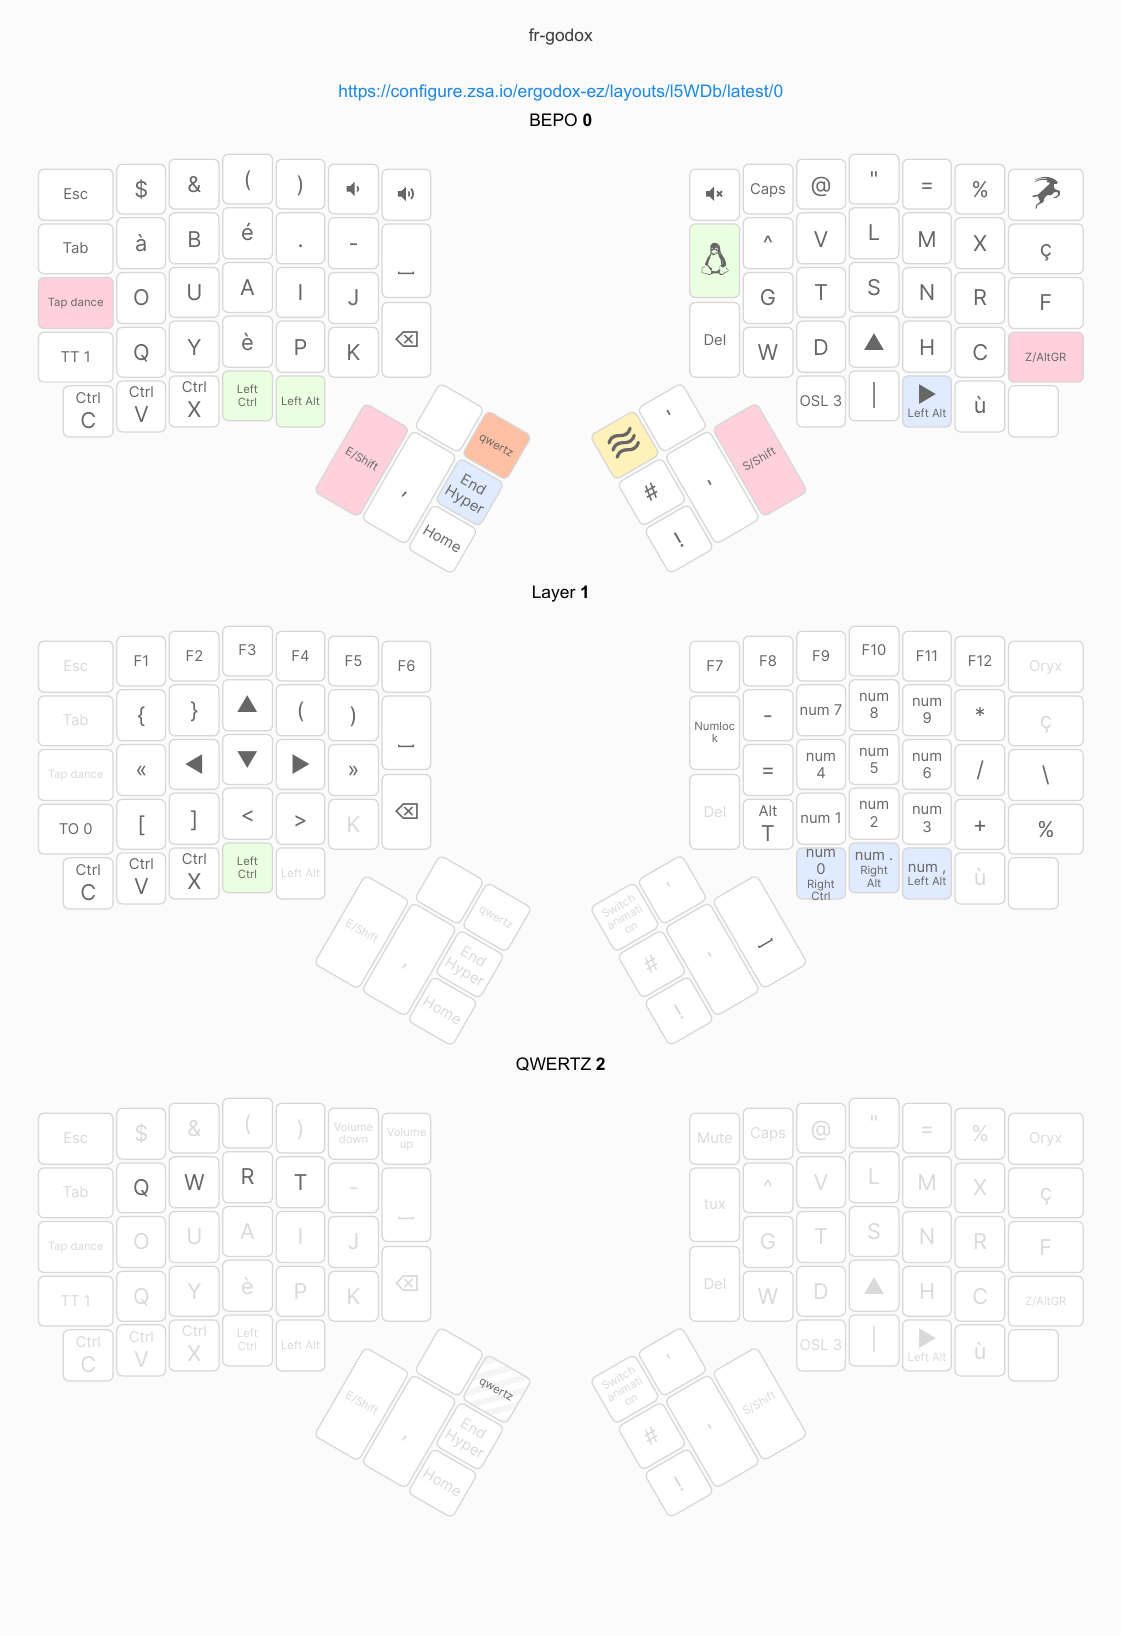
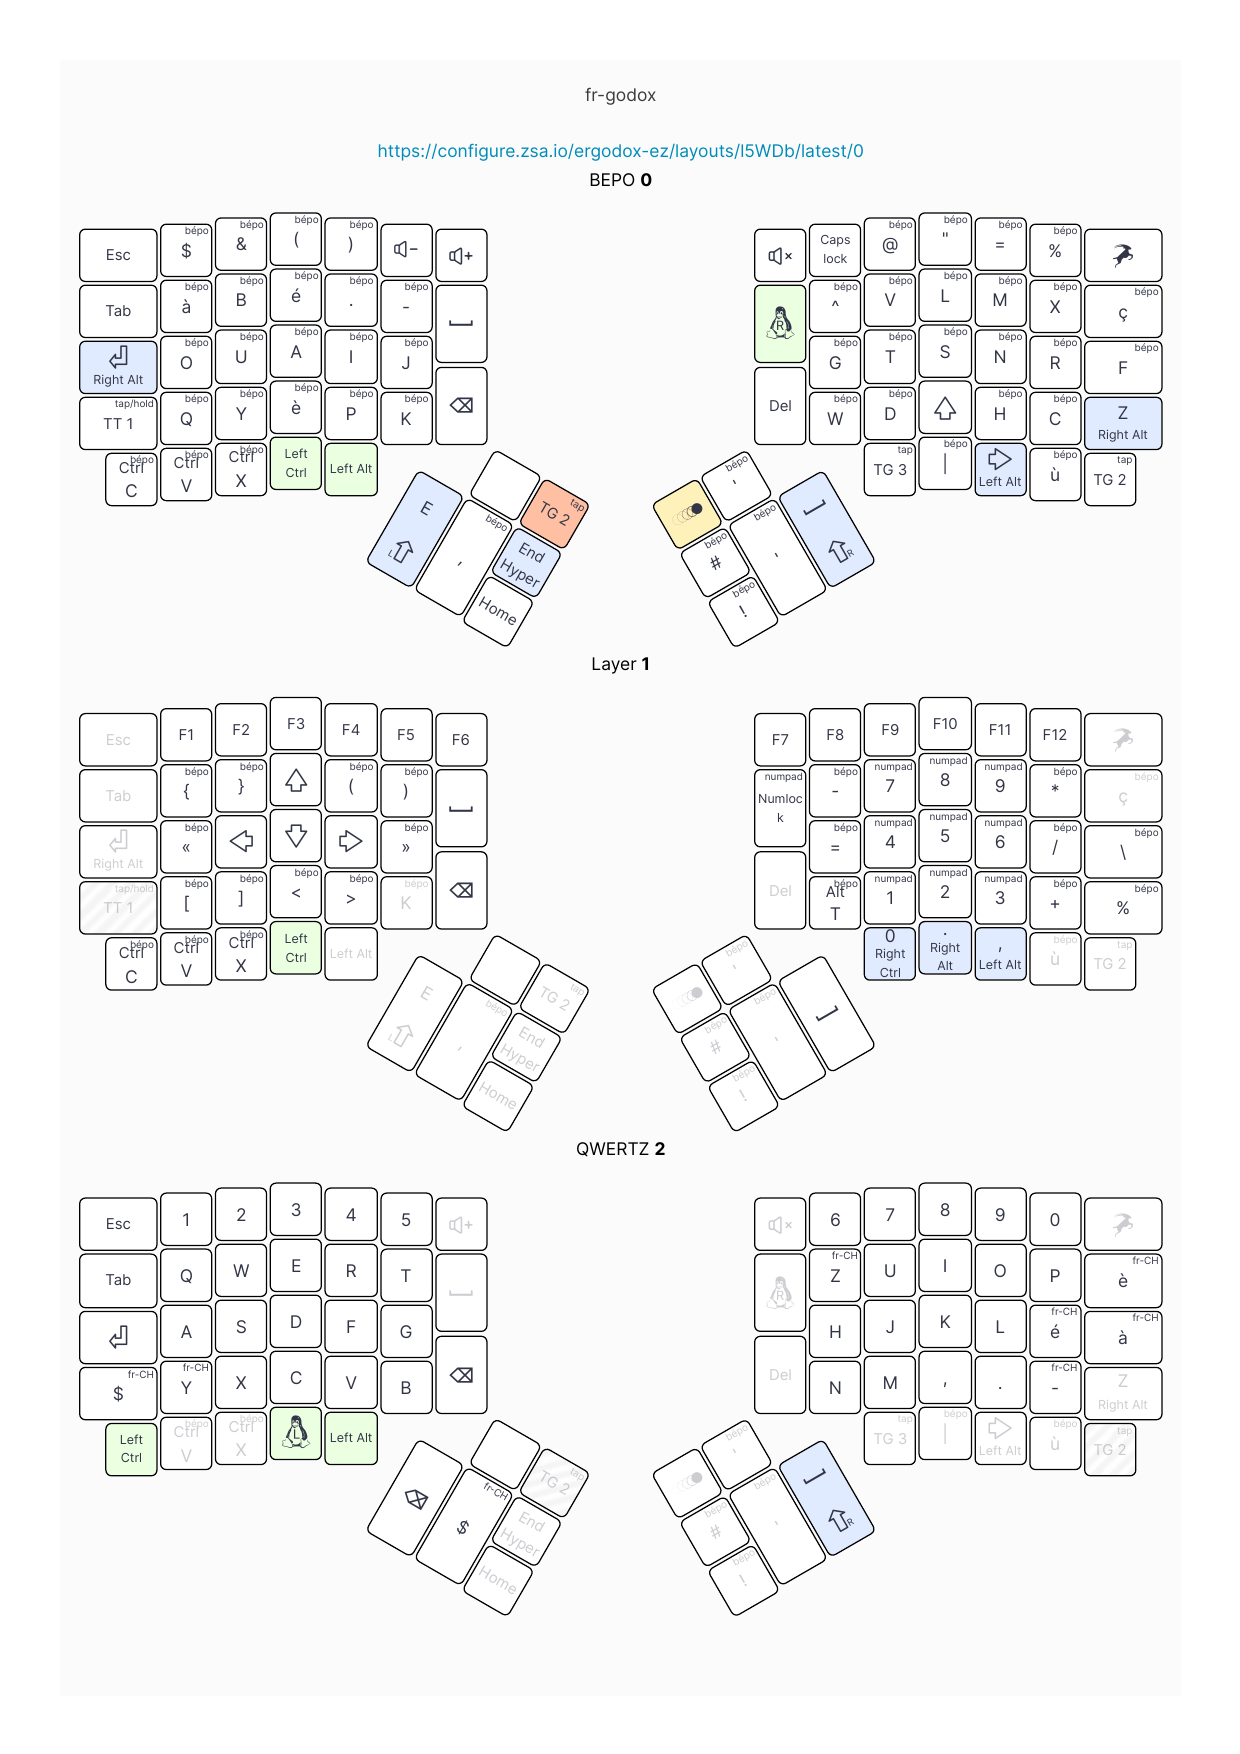
Add qwertz layer and change color when changing to a different layer

diff --git a/keyboards/ergodox_ez/shine/keymaps/fr_godox/keymap.c b/keyboards/ergodox_ez/shine/keymaps/fr_godox/keymap.c
@@ -49,48 +49,42 @@ enum custom_keycodes {
   BP_RSPC,
 };
 
-enum tap_dance_codes {
-  DANCE_0,
-  DANCE_1,
-  DANCE_2,
-  DANCE_3,
-};
 
 const uint16_t PROGMEM keymaps[][MATRIX_ROWS][MATRIX_COLS] = {
   [0] = LAYOUT_ergodox_pretty(
     KC_ESCAPE,      BP_DLR,         BP_AMPR,        BP_LPRN,        BP_RPRN,        KC_AUDIO_VOL_DOWN,KC_AUDIO_VOL_UP,                                KC_AUDIO_MUTE,  KC_CAPSLOCK,    BP_AT,          BP_DQOT,        BP_EQL,         BP_PERC,        WEBUSB_PAIR,
     KC_TAB,         BP_AGRV,        BP_B,           BP_ECUT,        BP_DOT,         BP_MINS,        KC_SPACE,                                       KC_RGUI,        BP_DCRC,        BP_V,           BP_L,           BP_M,           BP_X,           BP_CCED,
-    TD(DANCE_0),    BP_O,           BP_U,           BP_A,           BP_I,           BP_J,                                                                           BP_G,           BP_T,           BP_S,           BP_N,           BP_R,           BP_F,
-    TT(1),          BP_Q,           BP_Y,           BP_EGRV,        BP_P,           BP_K,           KC_BSPACE,                                      KC_DELETE,      BP_W,           BP_D,           KC_UP,          BP_H,           BP_C,           TD(DANCE_2),
-    LCTL(BP_C),     LCTL(BP_V),     LCTL(BP_X),     KC_LCTRL,       KC_LALT,                                                                                                        OSL(3),         BP_PIPE,        LALT_T(KC_RIGHT),BP_UGRV,        KC_TRANSPARENT,
+    RALT_T(KC_ENTER),BP_O,           BP_U,           BP_A,           BP_I,           BP_J,                                                                           BP_G,           BP_T,           BP_S,           BP_N,           BP_R,           BP_F,
+    TT(1),          BP_Q,           BP_Y,           BP_EGRV,        BP_P,           BP_K,           KC_BSPACE,                                      KC_DELETE,      BP_W,           BP_D,           KC_UP,          BP_H,           BP_C,           RALT_T(BP_Z),
+    LCTL(BP_C),     LCTL(BP_V),     LCTL(BP_X),     KC_LCTRL,       KC_LALT,                                                                                                        TG(3),          BP_PIPE,        LALT_T(KC_RIGHT),BP_UGRV,        TG(2),
                                                                                                     KC_TRANSPARENT, TG(2),          RGB_MOD,        BP_APOS,
-                                                                                                                    MT(MOD_HYPR, KC_END),BP_HASH,
-                                                                                    TD(DANCE_1),    BP_COMM,        KC_HOME,        BP_EXLM,        BP_APOS,        TD(DANCE_3)
+                                                                                                                    MT(MOD_HYPR,KC_END),BP_HASH,
+                                                                                    LSFT_T(BP_E),   BP_COMM,        KC_HOME,        BP_EXLM,        BP_APOS,        RSFT_T(KC_SPACE)
   ),
   [1] = LAYOUT_ergodox_pretty(
     KC_TRANSPARENT, KC_F1,          KC_F2,          KC_F3,          KC_F4,          KC_F5,          KC_F6,                                          KC_F7,          KC_F8,          KC_F9,          KC_F10,         KC_F11,         KC_F12,         KC_TRANSPARENT,
     KC_TRANSPARENT, BP_LCBR,        BP_RCBR,        KC_UP,          BP_LPRN,        BP_RPRN,        KC_SPACE,                                       KC_NUMLOCK,     BP_MINS,        KC_KP_7,        KC_KP_8,        KC_KP_9,        BP_ASTR,        KC_TRANSPARENT,
     KC_TRANSPARENT, BP_LGIL,        KC_LEFT,        KC_DOWN,        KC_RIGHT,       BP_RGIL,                                                                        BP_EQL,         KC_KP_4,        KC_KP_5,        KC_KP_6,        BP_SLSH,        BP_BSLS,
-    TO(0),          BP_LBRC,        BP_RBRC,        BP_LESS,        BP_GRTR,        KC_TRANSPARENT, KC_BSPACE,                                      KC_TRANSPARENT, RALT(BP_T),     KC_KP_1,        KC_KP_2,        KC_KP_3,        BP_PLUS,        BP_PERC,
+    KC_TRANSPARENT, BP_LBRC,        BP_RBRC,        BP_LESS,        BP_GRTR,        KC_TRANSPARENT, KC_BSPACE,                                      KC_TRANSPARENT, RALT(BP_T),     KC_KP_1,        KC_KP_2,        KC_KP_3,        BP_PLUS,        BP_PERC,
     LCTL(BP_C),     LCTL(BP_V),     LCTL(BP_X),     KC_LCTRL,       KC_TRANSPARENT,                                                                                                 RCTL_T(KC_KP_0),RALT_T(KC_KP_DOT),LALT_T(KC_KP_COMMA),KC_TRANSPARENT, KC_TRANSPARENT,
                                                                                                     KC_TRANSPARENT, KC_TRANSPARENT, KC_TRANSPARENT, KC_TRANSPARENT,
                                                                                                                     KC_TRANSPARENT, KC_TRANSPARENT,
                                                                                     KC_TRANSPARENT, KC_TRANSPARENT, KC_TRANSPARENT, KC_TRANSPARENT, KC_TRANSPARENT, KC_SPACE
   ),
   [2] = LAYOUT_ergodox_pretty(
-    KC_TRANSPARENT, KC_TRANSPARENT, KC_TRANSPARENT, KC_TRANSPARENT, KC_TRANSPARENT, KC_TRANSPARENT, KC_TRANSPARENT,                                 KC_TRANSPARENT, KC_TRANSPARENT, KC_TRANSPARENT, KC_TRANSPARENT, KC_TRANSPARENT, KC_TRANSPARENT, KC_TRANSPARENT,
-    KC_TRANSPARENT, KC_Q,           KC_W,           KC_R,           KC_T,           KC_TRANSPARENT, KC_TRANSPARENT,                                 KC_TRANSPARENT, KC_TRANSPARENT, KC_TRANSPARENT, KC_TRANSPARENT, KC_TRANSPARENT, KC_TRANSPARENT, KC_TRANSPARENT,
-    KC_TRANSPARENT, KC_TRANSPARENT, KC_TRANSPARENT, KC_TRANSPARENT, KC_TRANSPARENT, KC_TRANSPARENT,                                                                 KC_TRANSPARENT, KC_TRANSPARENT, KC_TRANSPARENT, KC_TRANSPARENT, KC_TRANSPARENT, KC_TRANSPARENT,
-    KC_TRANSPARENT, KC_TRANSPARENT, KC_TRANSPARENT, KC_TRANSPARENT, KC_TRANSPARENT, KC_TRANSPARENT, KC_TRANSPARENT,                                 KC_TRANSPARENT, KC_TRANSPARENT, KC_TRANSPARENT, KC_TRANSPARENT, KC_TRANSPARENT, KC_TRANSPARENT, KC_TRANSPARENT,
-    KC_TRANSPARENT, KC_TRANSPARENT, KC_TRANSPARENT, KC_TRANSPARENT, KC_TRANSPARENT,                                                                                                 KC_TRANSPARENT, KC_TRANSPARENT, KC_TRANSPARENT, KC_TRANSPARENT, KC_TRANSPARENT,
+    KC_ESCAPE,      KC_1,           KC_2,           KC_3,           KC_4,           KC_5,           KC_TRANSPARENT,                                 KC_TRANSPARENT, KC_6,           KC_7,           KC_8,           KC_9,           KC_0,           KC_TRANSPARENT,
+    KC_TAB,         KC_Q,           KC_W,           KC_E,           KC_R,           KC_T,           KC_TRANSPARENT,                                 KC_TRANSPARENT, FRCH_Z,         KC_U,           KC_I,           KC_O,           KC_P,           FRCH_EGRV,
+    KC_ENTER,       KC_A,           KC_S,           KC_D,           KC_F,           KC_G,                                                                           KC_H,           KC_J,           KC_K,           KC_L,           FRCH_EACU,      FRCH_AGRV,
+    FRCH_DLR,       FRCH_Y,         KC_X,           KC_C,           KC_V,           KC_B,           KC_BSPACE,                                      KC_TRANSPARENT, KC_N,           KC_M,           KC_COMMA,       KC_DOT,         FRCH_MINS,      KC_TRANSPARENT,
+    KC_LCTRL,       KC_TRANSPARENT, KC_TRANSPARENT, KC_LGUI,        KC_LALT,                                                                                                        KC_TRANSPARENT, KC_TRANSPARENT, KC_TRANSPARENT, KC_TRANSPARENT, KC_TRANSPARENT,
                                                                                                     KC_TRANSPARENT, KC_TRANSPARENT, KC_TRANSPARENT, KC_TRANSPARENT,
                                                                                                                     KC_TRANSPARENT, KC_TRANSPARENT,
-                                                                                    KC_TRANSPARENT, KC_TRANSPARENT, KC_TRANSPARENT, KC_TRANSPARENT, KC_TRANSPARENT, KC_TRANSPARENT
+                                                                                    KC_BSPACE,      FRCH_DLR,       KC_TRANSPARENT, KC_TRANSPARENT, KC_TRANSPARENT, RSFT_T(KC_SPACE)
   ),
   [3] = LAYOUT_ergodox_pretty(
     KC_TRANSPARENT, KC_TRANSPARENT, KC_TRANSPARENT, KC_TRANSPARENT, KC_TRANSPARENT, KC_TRANSPARENT, KC_TRANSPARENT,                                 KC_TRANSPARENT, KC_TRANSPARENT, KC_TRANSPARENT, KC_TRANSPARENT, KC_TRANSPARENT, KC_TRANSPARENT, KC_TRANSPARENT,
     KC_TRANSPARENT, KC_TRANSPARENT, KC_TRANSPARENT, KC_TRANSPARENT, KC_TRANSPARENT, KC_TRANSPARENT, KC_TRANSPARENT,                                 KC_TRANSPARENT, KC_TRANSPARENT, KC_TRANSPARENT, KC_TRANSPARENT, KC_TRANSPARENT, KC_TRANSPARENT, KC_TRANSPARENT,
-    KC_TRANSPARENT, LALT(BP_1),     LALT(BP_2),     LALT(BP_3),     LALT(BP_4),     KC_TRANSPARENT,                                                                 KC_TRANSPARENT, LALT(BP_5),     BP_6,           BP_7,           LALT(BP_8),     KC_TRANSPARENT,
+    KC_TRANSPARENT, LALT(BP_1),     LALT(BP_2),     LALT(LCTL(BP_3)),LALT(BP_4),     KC_TRANSPARENT,                                                                 KC_TRANSPARENT, LALT(BP_5),     LALT(BP_6),     LALT(BP_7),     LALT(BP_8),     KC_TRANSPARENT,
     KC_TRANSPARENT, KC_TRANSPARENT, KC_TRANSPARENT, KC_TRANSPARENT, KC_TRANSPARENT, KC_TRANSPARENT, KC_TRANSPARENT,                                 KC_TRANSPARENT, KC_TRANSPARENT, KC_TRANSPARENT, KC_TRANSPARENT, KC_TRANSPARENT, KC_TRANSPARENT, KC_TRANSPARENT,
     KC_TRANSPARENT, KC_TRANSPARENT, KC_TRANSPARENT, KC_TRANSPARENT, KC_TRANSPARENT,                                                                                                 KC_TRANSPARENT, KC_TRANSPARENT, KC_TRANSPARENT, KC_TRANSPARENT, KC_TRANSPARENT,
                                                                                                     KC_TRANSPARENT, KC_TRANSPARENT, KC_TRANSPARENT, KC_TRANSPARENT,
@@ -120,6 +114,9 @@ const uint16_t PROGMEM keymaps[][MATRIX_ROWS][MATRIX_COLS] = {
 };
 
 
+rgblight_config_t rgblight_config;
+bool disable_layer_color = 0;
+
 bool suspended = false;
 
 bool process_record_user(uint16_t keycode, keyrecord_t *record) {
@@ -133,6 +130,11 @@ bool process_record_user(uint16_t keycode, keyrecord_t *record) {
     case RGB_SLD:
       if (record->event.pressed) {
         rgblight_mode(1);
+      }
+      return false;
+    case TOGGLE_LAYER_COLOR:
+      if (record->event.pressed) {
+        disable_layer_color ^= 1;
       }
       return false;
   }
@@ -177,6 +179,28 @@ uint32_t layer_state_set_user(uint32_t state) {
       default:
         break;
     }
+    switch (layer) {
+      case 2:
+        if(!disable_layer_color) {
+          rgblight_enable_noeeprom();
+          rgblight_mode_noeeprom(1);
+          rgblight_sethsv_noeeprom(0,238,225);
+        }
+        break;
+      default:
+        if(!disable_layer_color) {
+          rgblight_config.raw = eeconfig_read_rgblight();
+          if(rgblight_config.enable == true) {
+            rgblight_enable();
+            rgblight_mode(rgblight_config.mode);
+            rgblight_sethsv(rgblight_config.hue, rgblight_config.sat, rgblight_config.val);
+          }
+          else {
+            rgblight_disable();
+          }
+        }
+        break;
+    }
     return state;
 
 };
@@ -185,182 +209,4 @@ void keyboard_post_init_user(void) {
   layer_state_set_user(layer_state);
 }
 
-typedef struct {
-    bool is_press_action;
-    uint8_t step;
-} tap;
-
-enum {
-    SINGLE_TAP = 1,
-    SINGLE_HOLD,
-    DOUBLE_TAP,
-    DOUBLE_HOLD,
-    DOUBLE_SINGLE_TAP,
-    MORE_TAPS
-};
-
-static tap dance_state[4];
-
-uint8_t dance_step(qk_tap_dance_state_t *state);
-
-uint8_t dance_step(qk_tap_dance_state_t *state) {
-    if (state->count == 1) {
-        if (state->interrupted || !state->pressed) return SINGLE_TAP;
-        else return SINGLE_HOLD;
-    } else if (state->count == 2) {
-        if (state->interrupted) return DOUBLE_SINGLE_TAP;
-        else if (state->pressed) return DOUBLE_HOLD;
-        else return DOUBLE_TAP;
-    }
-    return MORE_TAPS;
-}
-
-
-void on_dance_0(qk_tap_dance_state_t *state, void *user_data);
-void dance_0_finished(qk_tap_dance_state_t *state, void *user_data);
-void dance_0_reset(qk_tap_dance_state_t *state, void *user_data);
-
-void on_dance_0(qk_tap_dance_state_t *state, void *user_data) {
-    if(state->count == 3) {
-        tap_code16(KC_ENTER);
-        tap_code16(KC_ENTER);
-        tap_code16(KC_ENTER);
-    }
-    if(state->count > 3) {
-        tap_code16(KC_ENTER);
-    }
-}
-
-void dance_0_finished(qk_tap_dance_state_t *state, void *user_data) {
-    dance_state[0].step = dance_step(state);
-    switch (dance_state[0].step) {
-        case SINGLE_TAP: register_code16(KC_ENTER); break;
-        case SINGLE_HOLD: register_code16(KC_RALT); break;
-        case DOUBLE_TAP: register_code16(KC_ENTER); register_code16(KC_ENTER); break;
-        case DOUBLE_SINGLE_TAP: tap_code16(KC_ENTER); register_code16(KC_ENTER);
-    }
-}
-
-void dance_0_reset(qk_tap_dance_state_t *state, void *user_data) {
-    wait_ms(10);
-    switch (dance_state[0].step) {
-        case SINGLE_TAP: unregister_code16(KC_ENTER); break;
-        case SINGLE_HOLD: unregister_code16(KC_RALT); break;
-        case DOUBLE_TAP: unregister_code16(KC_ENTER); break;
-        case DOUBLE_SINGLE_TAP: unregister_code16(KC_ENTER); break;
-    }
-    dance_state[0].step = 0;
-}
-void on_dance_1(qk_tap_dance_state_t *state, void *user_data);
-void dance_1_finished(qk_tap_dance_state_t *state, void *user_data);
-void dance_1_reset(qk_tap_dance_state_t *state, void *user_data);
-
-void on_dance_1(qk_tap_dance_state_t *state, void *user_data) {
-    if(state->count == 3) {
-        tap_code16(BP_E);
-        tap_code16(BP_E);
-        tap_code16(BP_E);
-    }
-    if(state->count > 3) {
-        tap_code16(BP_E);
-    }
-}
-
-void dance_1_finished(qk_tap_dance_state_t *state, void *user_data) {
-    dance_state[1].step = dance_step(state);
-    switch (dance_state[1].step) {
-        case SINGLE_TAP: register_code16(BP_E); break;
-        case SINGLE_HOLD: register_code16(KC_LSHIFT); break;
-        case DOUBLE_TAP: register_code16(BP_E); register_code16(BP_E); break;
-        case DOUBLE_SINGLE_TAP: tap_code16(BP_E); register_code16(BP_E);
-    }
-}
-
-void dance_1_reset(qk_tap_dance_state_t *state, void *user_data) {
-    wait_ms(10);
-    switch (dance_state[1].step) {
-        case SINGLE_TAP: unregister_code16(BP_E); break;
-        case SINGLE_HOLD: unregister_code16(KC_LSHIFT); break;
-        case DOUBLE_TAP: unregister_code16(BP_E); break;
-        case DOUBLE_SINGLE_TAP: unregister_code16(BP_E); break;
-    }
-    dance_state[1].step = 0;
-}
-void on_dance_2(qk_tap_dance_state_t *state, void *user_data);
-void dance_2_finished(qk_tap_dance_state_t *state, void *user_data);
-void dance_2_reset(qk_tap_dance_state_t *state, void *user_data);
-
-void on_dance_2(qk_tap_dance_state_t *state, void *user_data) {
-    if(state->count == 3) {
-        tap_code16(BP_Z);
-        tap_code16(BP_Z);
-        tap_code16(BP_Z);
-    }
-    if(state->count > 3) {
-        tap_code16(BP_Z);
-    }
-}
-
-void dance_2_finished(qk_tap_dance_state_t *state, void *user_data) {
-    dance_state[2].step = dance_step(state);
-    switch (dance_state[2].step) {
-        case SINGLE_TAP: register_code16(BP_Z); break;
-        case SINGLE_HOLD: register_code16(KC_RALT); break;
-        case DOUBLE_TAP: register_code16(BP_Z); register_code16(BP_Z); break;
-        case DOUBLE_SINGLE_TAP: tap_code16(BP_Z); register_code16(BP_Z);
-    }
-}
-
-void dance_2_reset(qk_tap_dance_state_t *state, void *user_data) {
-    wait_ms(10);
-    switch (dance_state[2].step) {
-        case SINGLE_TAP: unregister_code16(BP_Z); break;
-        case SINGLE_HOLD: unregister_code16(KC_RALT); break;
-        case DOUBLE_TAP: unregister_code16(BP_Z); break;
-        case DOUBLE_SINGLE_TAP: unregister_code16(BP_Z); break;
-    }
-    dance_state[2].step = 0;
-}
-void on_dance_3(qk_tap_dance_state_t *state, void *user_data);
-void dance_3_finished(qk_tap_dance_state_t *state, void *user_data);
-void dance_3_reset(qk_tap_dance_state_t *state, void *user_data);
-
-void on_dance_3(qk_tap_dance_state_t *state, void *user_data) {
-    if(state->count == 3) {
-        tap_code16(KC_SPACE);
-        tap_code16(KC_SPACE);
-        tap_code16(KC_SPACE);
-    }
-    if(state->count > 3) {
-        tap_code16(KC_SPACE);
-    }
-}
-
-void dance_3_finished(qk_tap_dance_state_t *state, void *user_data) {
-    dance_state[3].step = dance_step(state);
-    switch (dance_state[3].step) {
-        case SINGLE_TAP: register_code16(KC_SPACE); break;
-        case SINGLE_HOLD: register_code16(KC_RSHIFT); break;
-        case DOUBLE_TAP: register_code16(KC_SPACE); register_code16(KC_SPACE); break;
-        case DOUBLE_SINGLE_TAP: tap_code16(KC_SPACE); register_code16(KC_SPACE);
-    }
-}
-
-void dance_3_reset(qk_tap_dance_state_t *state, void *user_data) {
-    wait_ms(10);
-    switch (dance_state[3].step) {
-        case SINGLE_TAP: unregister_code16(KC_SPACE); break;
-        case SINGLE_HOLD: unregister_code16(KC_RSHIFT); break;
-        case DOUBLE_TAP: unregister_code16(KC_SPACE); break;
-        case DOUBLE_SINGLE_TAP: unregister_code16(KC_SPACE); break;
-    }
-    dance_state[3].step = 0;
-}
-
-qk_tap_dance_action_t tap_dance_actions[] = {
-        [DANCE_0] = ACTION_TAP_DANCE_FN_ADVANCED(on_dance_0, dance_0_finished, dance_0_reset),
-        [DANCE_1] = ACTION_TAP_DANCE_FN_ADVANCED(on_dance_1, dance_1_finished, dance_1_reset),
-        [DANCE_2] = ACTION_TAP_DANCE_FN_ADVANCED(on_dance_2, dance_2_finished, dance_2_reset),
-        [DANCE_3] = ACTION_TAP_DANCE_FN_ADVANCED(on_dance_3, dance_3_finished, dance_3_reset),
-};
 

diff --git a/keyboards/ergodox_ez/shine/keymaps/fr_godox/config.h b/keyboards/ergodox_ez/shine/keymaps/fr_godox/config.h
@@ -3,7 +3,10 @@
   See config.h options at https://docs.qmk.fm/#/config_options?id=the-configh-file
 */
 #define ORYX_CONFIGURATOR
+#undef TAPPING_TERM
+#define TAPPING_TERM 201
+
 #define USB_SUSPEND_WAKEUP_DELAY 0
 #define NO_AUTO_SHIFT_NUMERIC
 #define CAPS_LOCK_STATUS
-#define FIRMWARE_VERSION u8"l5WDb/N7nqa"
+#define FIRMWARE_VERSION u8"l5WDb/raV47"
